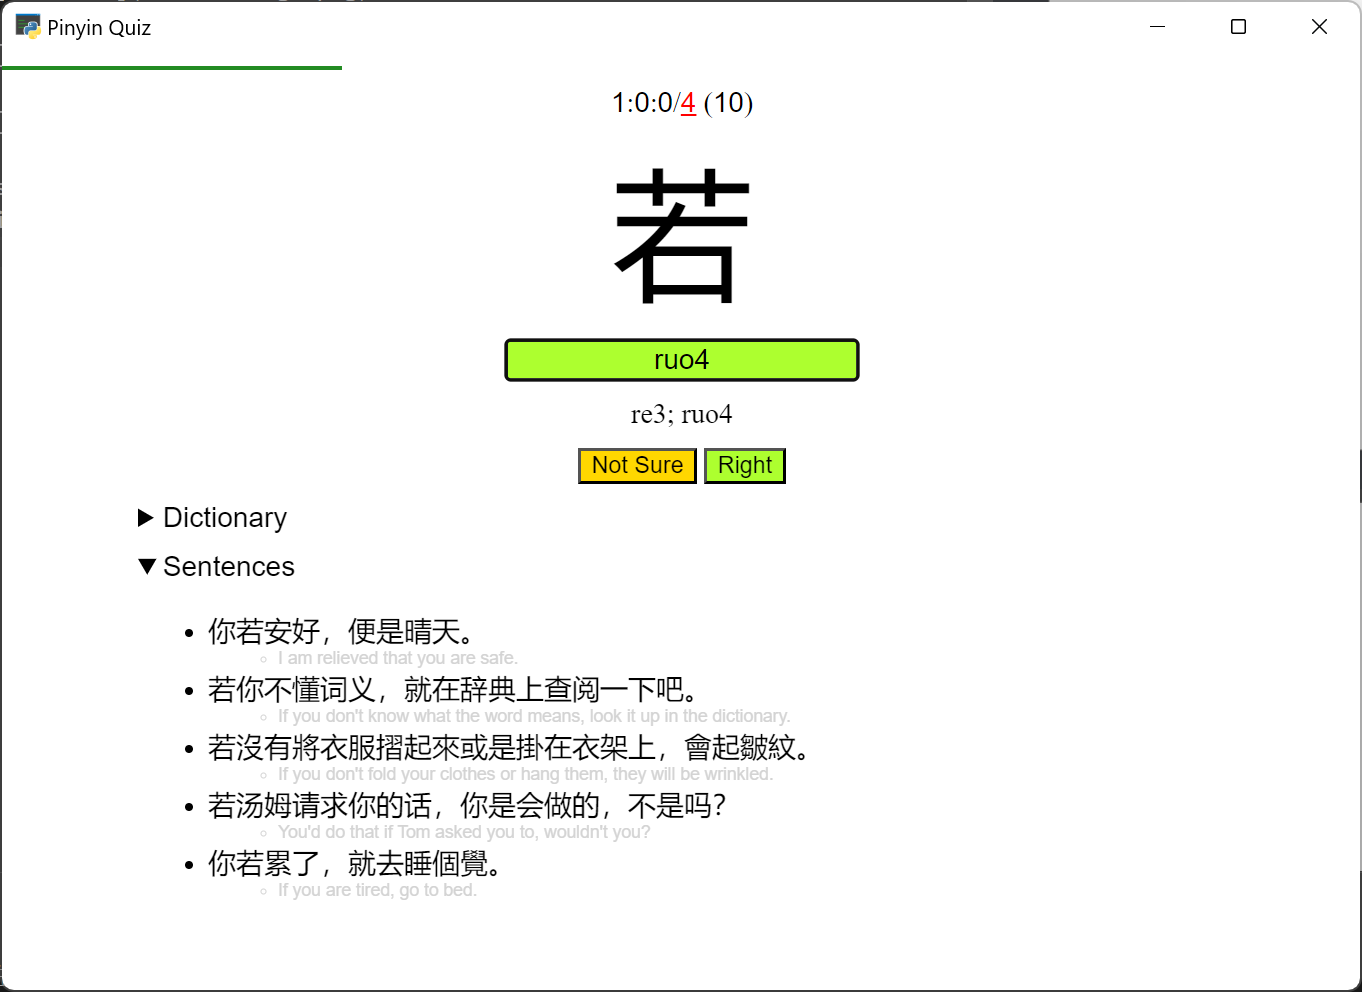
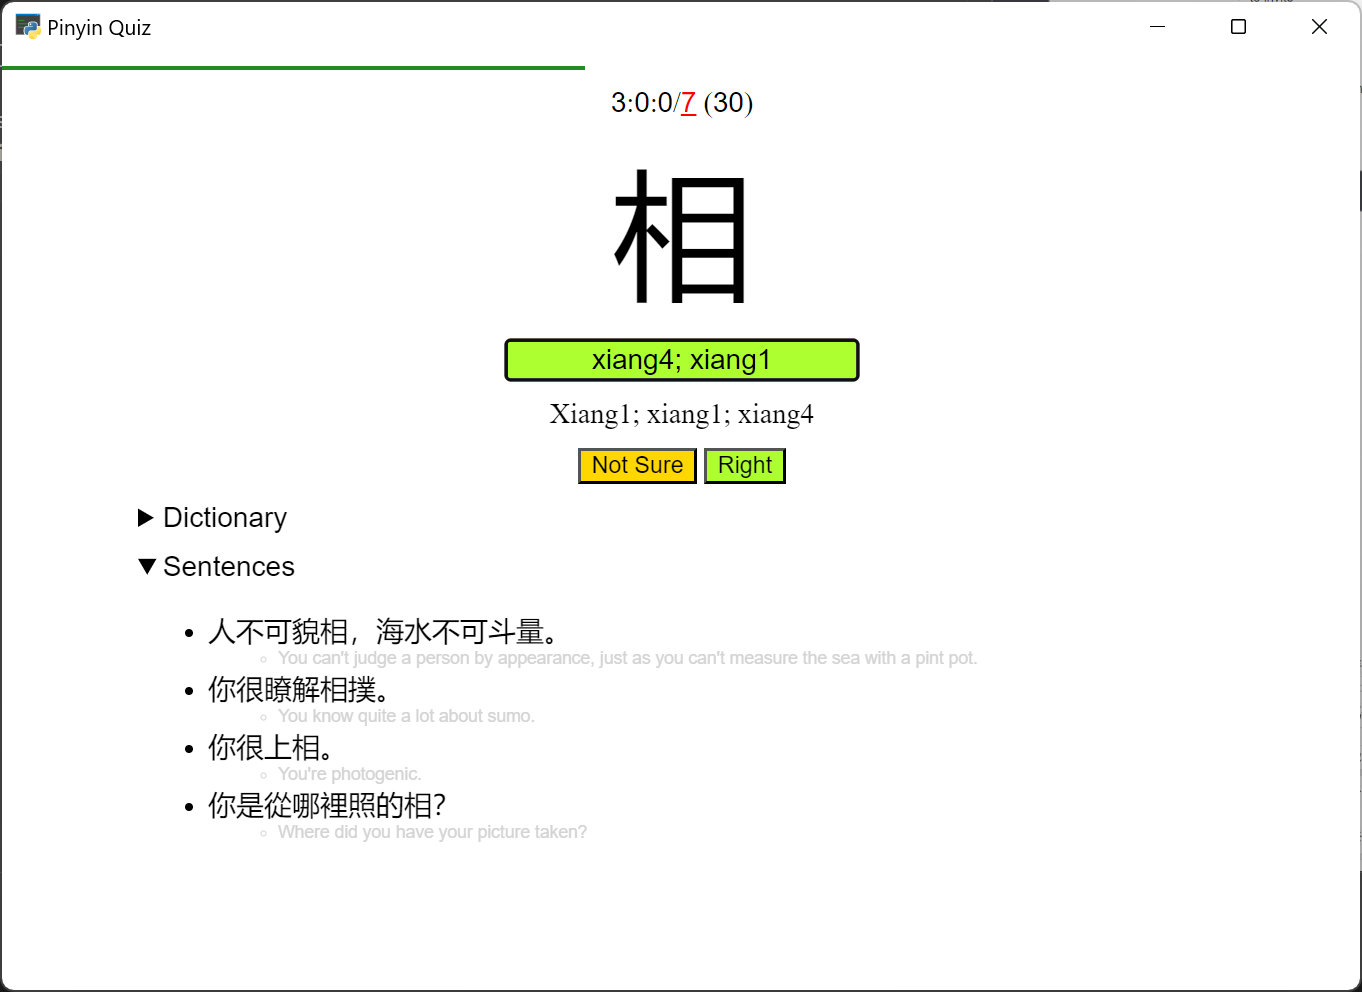
update README

diff --git a/app.py b/app.py
@@ -18,3 +18,4 @@ if __name__ == "__main__":
     webview.start(lambda: win.evaluate_js("newVocab()"))
 
     db.commit()
+    api.log(api.stats())

diff --git a/README.md b/README.md
@@ -8,8 +8,12 @@ Mulitple answers if applicable, separated by `;`.
 
 ![Due Quiz](README/due.png)
 
-![New Quiz](README/image-1.png)
+![New Quiz](README/new.png)
 
 ![Repeat Quiz](README/repeat.png)
 
 User vocabularies at `vocab/**/*.txt` will be added to Due queue (if the entries exist in CEDICT).
+
+## Vocab list ideas
+
+- [Hanzi levels](https://github.com/zhquiz/level/blob/master/_data/generated/vocab.yaml)
